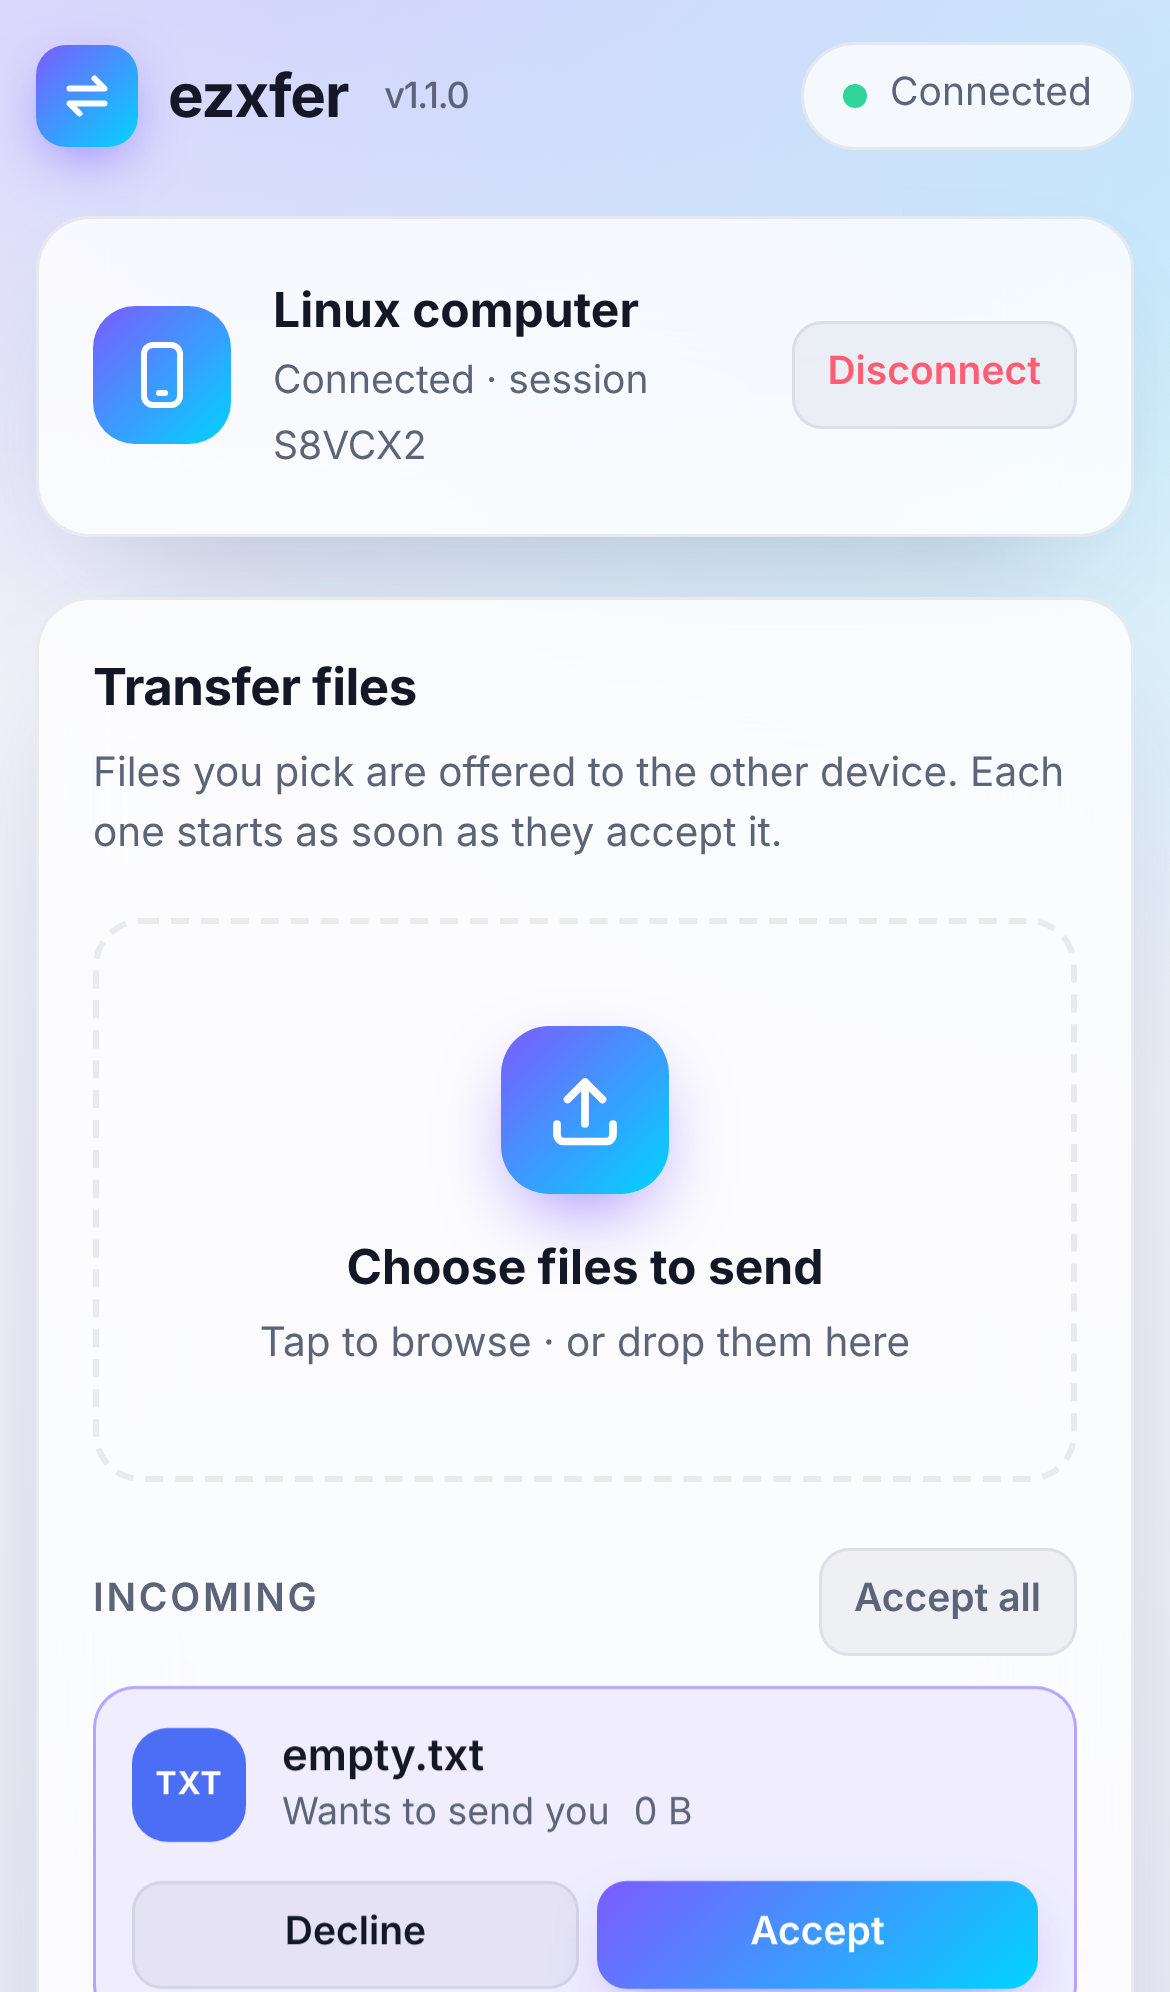
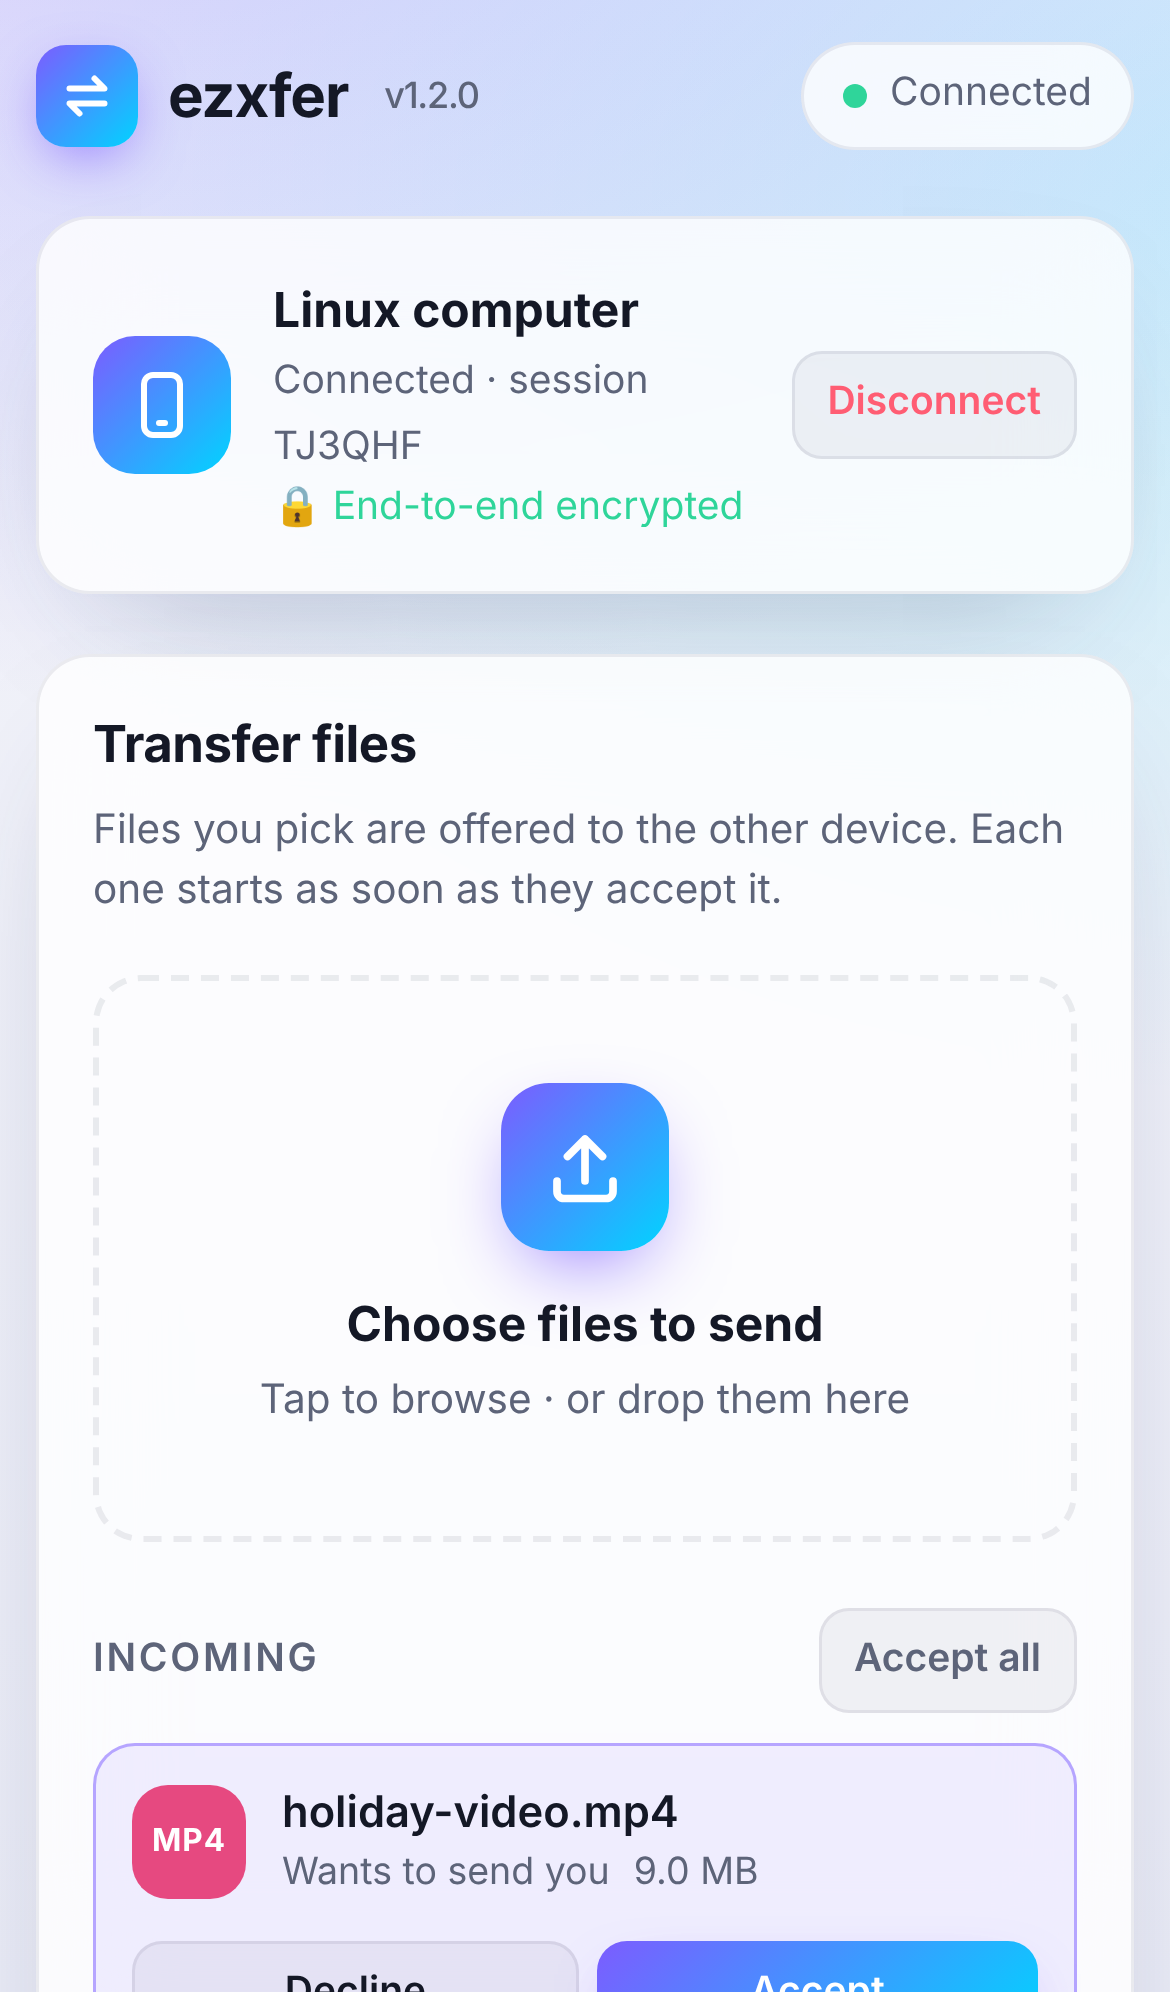
Version 1.2.0; fresh README screenshots
The screenshots showed the old connect card (the address under the code,
no encryption option). Now: desktop with encryption on and its key, the
dark theme, and a phone in an encrypted session with incoming offers.

Claude-Session: https://claude.ai/code/session_01URcgCdJAyYmRgjDTgNeGL5

diff --git a/tests/test_integration.py b/tests/test_integration.py
@@ -245,7 +245,7 @@ def http_index(srv):
     st, h, body = get(srv.port, "/")
     assert st == 200 and h["content-type"].startswith("text/html")
     assert int(h["content-length"]) == len(body)
-    assert b"<title>ezxfer</title>" in body and b"{{VERSION}}" not in body and b"v1.1.0" in body
+    assert b"<title>ezxfer</title>" in body and b"{{VERSION}}" not in body and b"v1.2.0" in body
     assert get(srv.port, "/index.html")[0] == 200
 
 
@@ -651,7 +651,7 @@ def test_options():
     srv = Server("--web", f.name)
     try:
         st, _, body = get(srv.port, "/")
-        assert st == 200 and body == b"<p>custom template 1.1.0 / 1.1.0</p>", body
+        assert st == 200 and body == b"<p>custom template 1.2.0 / 1.2.0</p>", body
     finally:
         srv.stop()
         os.unlink(f.name)

diff --git a/src/server.c b/src/server.c
@@ -29,7 +29,7 @@
 #define MSG_NOSIGNAL 0 /* SIGPIPE is ignored globally */
 #endif
 
-#define EZX_VERSION "1.1.0"
+#define EZX_VERSION "1.2.0"
 
 #define MAX_CONNS 512
 #define MAX_SESSIONS 256
